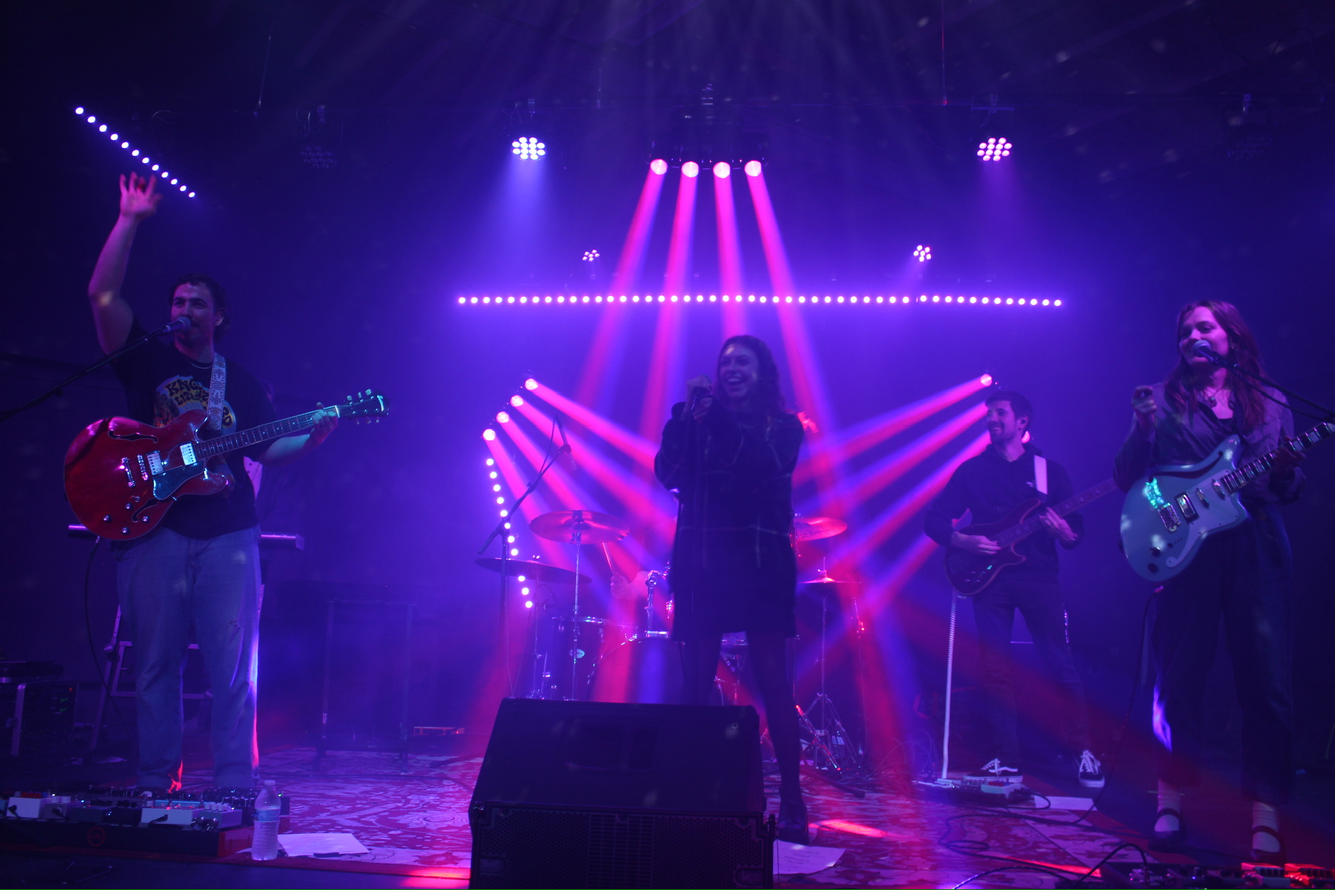
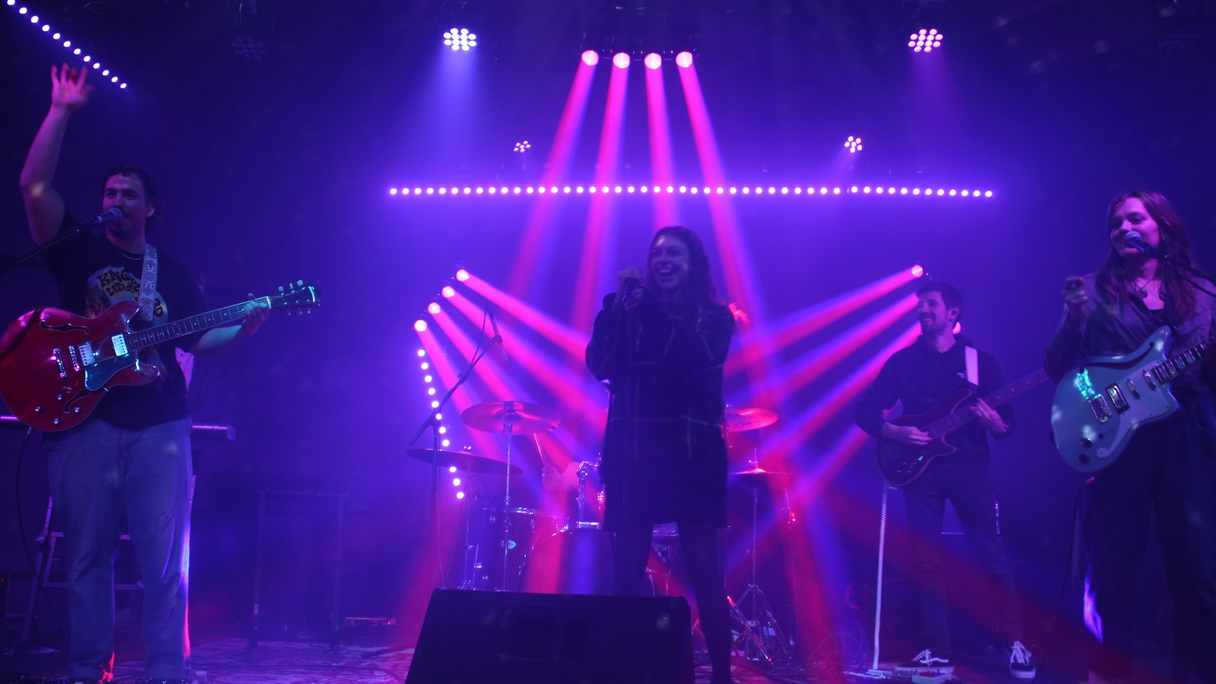
Update homepage carousel

diff --git a/src/pages/index.tsx b/src/pages/index.tsx
@@ -23,9 +23,10 @@ const carouselSlides: carouselSlideData[] = [
         url: "https://open.spotify.com/album/5XcJP9bbWJaEwOlwjLzMFa"
     },
     {
-        imageSrc: "/images/band/desktop/winter_2.jpg",
-        imageSrcMobile: "/images/band/mobile/winter_3.jpg",
-        imageAlt: "Cherry Park band members in front of a brick wall"
+        imageSrc: "/images/shows/2024.02.17_elkton_music_hall/band1.jpg",
+        imageSrcMobile: "/images/shows/2024.02.17_elkton_music_hall/band3.jpg",
+        imageTitle: "Live @ Elkton Music Hall, Sept 17th 2024",
+        imageAlt: "Cherry Park playing at Elkton Music Hall, in Elkton Maryland"
     },
     {
         imageSrc: "/images/albums/secret_garden/icon_wide.png",
@@ -34,10 +35,9 @@ const carouselSlides: carouselSlideData[] = [
         imageAlt: "Painted album art of an archway leading to water with the moon over it, for the Cherry Park EP, Secret Garden"
     },
     {
-        imageSrc: "/images/shows/2024.02.17_elkton_music_hall/band1.jpg",
-        imageSrcMobile: "/images/shows/2024.02.17_elkton_music_hall/band4.jpg",
-        imageTitle: "Live @ Elkton Music Hall, Sept 17th 2024",
-        imageAlt: "Cherry Park playing at Elkton Music Hall, in Elkton Maryland"
+        imageSrc: "/images/band/desktop/winter_2.jpg",
+        imageSrcMobile: "/images/band/mobile/winter_3.jpg",
+        imageAlt: "Cherry Park band members in front of a brick wall"
     },
     {
         imageSrc: "/images/band/desktop/summer_2.jpg",

diff --git a/src/pages/merch/index.tsx b/src/pages/merch/index.tsx
@@ -1,12 +1,12 @@
 import { type HeadFC, type PageProps } from "gatsby"
 import * as React from "react"
-import { Col, Image, Row } from "react-bootstrap"
+import { Col, Row } from "react-bootstrap"
 import Container from 'react-bootstrap/Container'
 import { CherryFooter } from "../../components/CherryFooter"
 import { CherryParkNavbar } from "../../components/CherryNavbar"
+import { MerchCard } from "../../components/MerchCard"
 import { MetaData } from "../../components/MetaData"
 import "../../scss/merch.scss"
-import { MerchCard } from "../../components/MerchCard"
 
 export const Head: HeadFC = () => (
     <>
